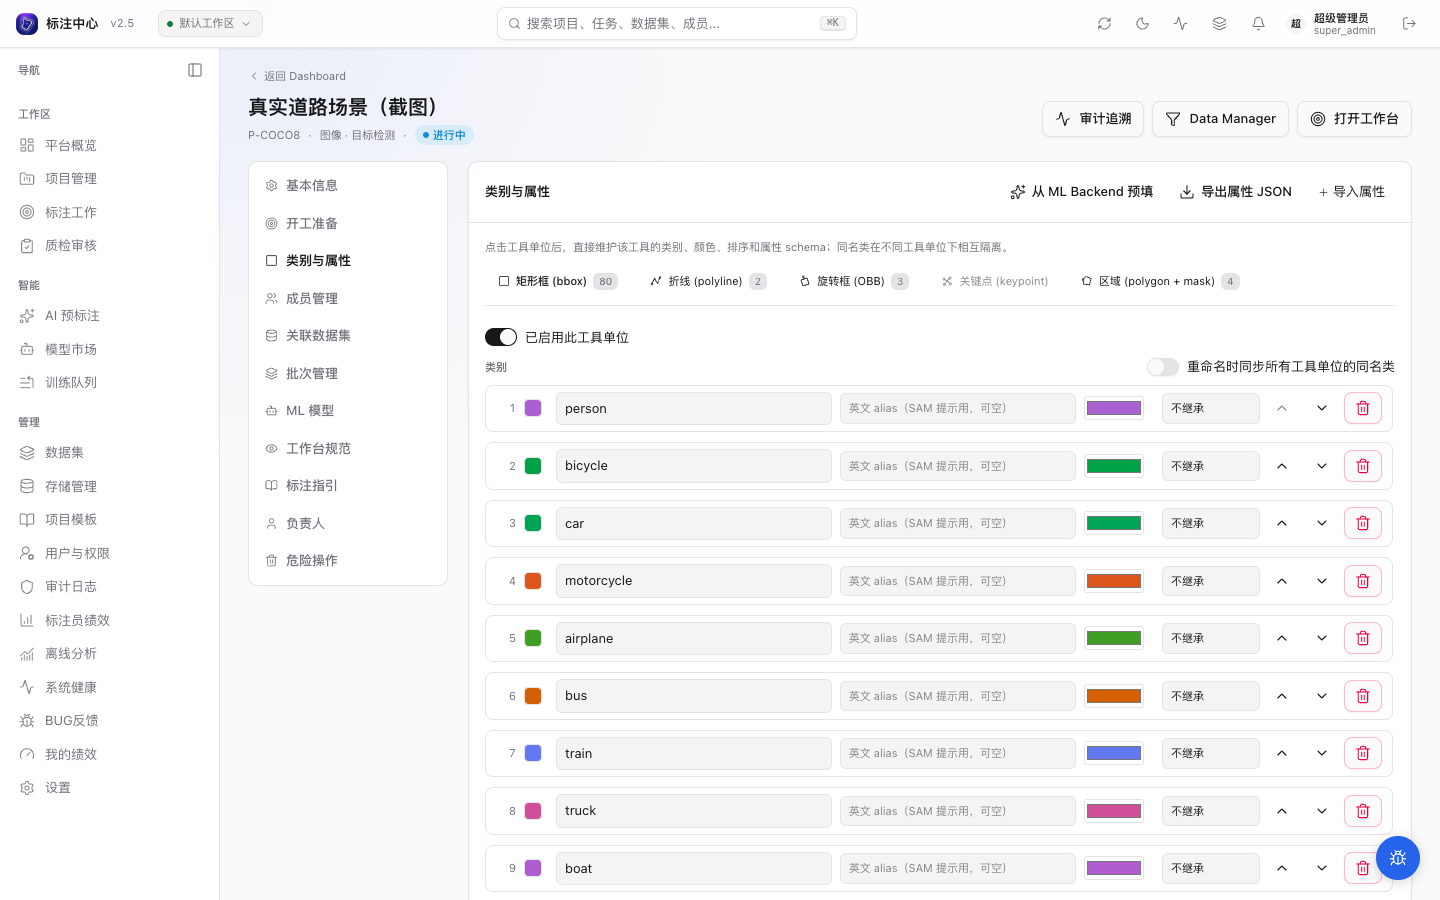
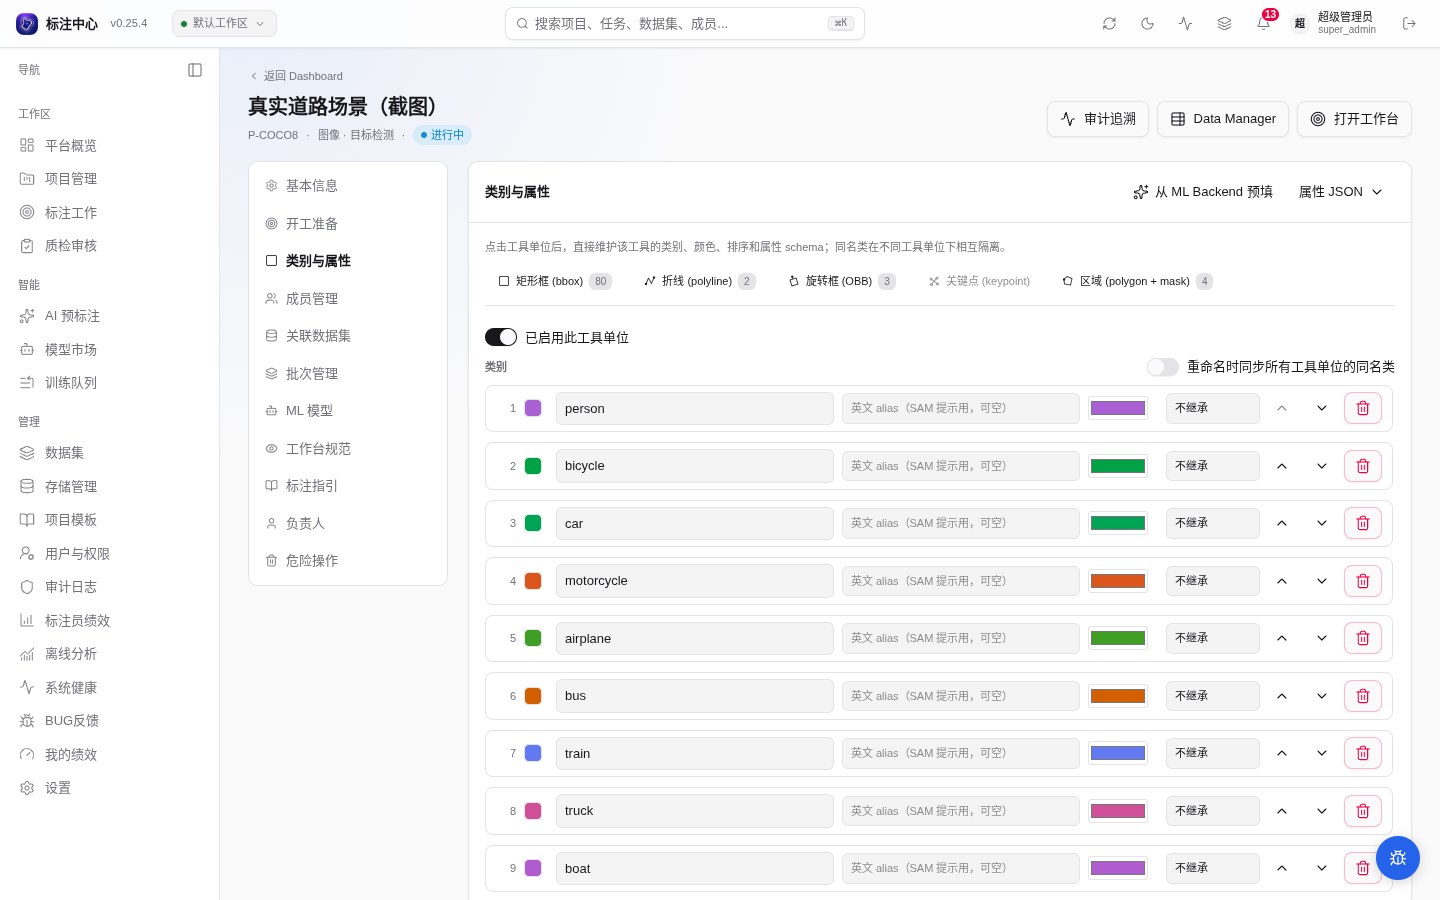
fix(web): 处理 PR #116 评审意见
- DropdownMenu 打开时把真实焦点移入面板（roving tabindex）：键盘用户
  可用 ↑↓ / Home / End / Enter / Space 直接操作菜单项，Esc / 选中 /
  trigger 再次点击后焦点归还触发器。此前只做视觉高亮，portal 面板对
  键盘用户不可达；补两条焦点单测
- 批次管理头部改为可换行布局（flex-wrap），约 480px 视口下操作组
  折行到标题下方，不再挤压标题或横向溢出
- 重拍 docs-site/user-guide/images/projects/tool-units-panel.png：
  「属性 JSON」下拉替代旧的三个独立按钮；经隔离截图栈
  （annotation_screenshots_test + Redis 15 + ml stub）单场景重拍，
  manifest 待下次完整矩阵运行统一重建

diff --git a/apps/web/src/components/ui/DropdownMenu.tsx b/apps/web/src/components/ui/DropdownMenu.tsx
@@ -170,6 +170,7 @@ export function DropdownMenu(props: DropdownMenuProps) {
   const hostRef = useRef<HTMLDivElement>(null);
   const triggerRef = useRef<HTMLButtonElement>(null);
   const menuRef = useRef<HTMLDivElement>(null);
+  const itemRefs = useRef<(HTMLButtonElement | null)[]>([]);
   const prevHostStyleRef = useRef<CSSProperties | undefined>(undefined);
   const prevPanelStyleRef = useRef<CSSProperties | undefined>(undefined);
   const [focusIdx, setFocusIdx] = useState(-1);
@@ -218,6 +219,15 @@ export function DropdownMenu(props: DropdownMenuProps) {
     const next = cur < 0 ? 0 : (cur + dir + selectableIdx.length) % selectableIdx.length;
     setFocusIdx(selectableIdx[next]);
   };
+
+  // 焦点实移（roving focus）：打开时焦点进入面板 / 首个可选中项，之后随 focusIdx 移动。
+  // 面板 portal 在 body 末尾且 tabIndex=-1，若只改 focusIdx 视觉高亮、不移真实焦点，
+  // 键盘用户 Tab 需穿过整页控件才能到菜单项，↑↓/Enter 也无从触发（PR #116 评审 P2）。
+  useEffect(() => {
+    if (!open) return;
+    const target = focusIdx >= 0 ? itemRefs.current[focusIdx] : menuRef.current;
+    target?.focus();
+  }, [focusIdx, open]);
 
   const onMenuKey = (e: ReactKeyboardEvent<HTMLDivElement>) => {
     if (!items) return; // content 模式不处理列表导航
@@ -332,8 +342,12 @@ export function DropdownMenu(props: DropdownMenuProps) {
             return (
               <button
                 key={it.id}
+                ref={(el) => {
+                  itemRefs.current[i] = el;
+                }}
                 type="button"
                 role="menuitem"
+                tabIndex={focused ? 0 : -1}
                 disabled={it.disabled}
                 onClick={() => {
                   if (it.disabled) return;
@@ -368,7 +382,11 @@ export function DropdownMenu(props: DropdownMenuProps) {
     <div ref={hostRef} className="inline-flex">
       {trigger({
         open,
-        toggle: () => setOpen((v) => !v),
+        toggle: () => {
+          // 打开时焦点已移入面板，关闭需归还触发器（Esc / 选中项已有同款处理）
+          if (open) triggerRef.current?.focus();
+          setOpen(!open);
+        },
         close,
         ref: triggerRef,
       })}

diff --git a/apps/web/src/components/ui/DropdownMenu.test.tsx b/apps/web/src/components/ui/DropdownMenu.test.tsx
@@ -63,6 +63,25 @@ describe("<DropdownMenu />", () => {
     expect(screen.queryByText("Option A")).toBeNull();
   });
 
+  // PR #116 评审 P2：打开时焦点必须真实移入菜单（面板 portal 在 body 末尾，
+  // 只改视觉高亮会让键盘用户无法触达菜单项）
+  it("打开后焦点移入首个可选中项，ArrowDown 移到下一项", () => {
+    render(<Wrapper />);
+    fireEvent.click(screen.getByText("打开"));
+    expect(screen.getByRole("menuitem", { name: "Option A" })).toHaveFocus();
+    fireEvent.keyDown(screen.getByRole("menu"), { key: "ArrowDown" });
+    expect(screen.getByRole("menuitem", { name: "Option B" })).toHaveFocus();
+  });
+
+  it("Escape 关闭后焦点回到 trigger", () => {
+    render(<Wrapper />);
+    fireEvent.click(screen.getByText("打开"));
+    expect(screen.getByRole("menuitem", { name: "Option A" })).toHaveFocus();
+    fireEvent.keyDown(document, { key: "Escape" });
+    expect(screen.queryByText("Option A")).toBeNull();
+    expect(screen.getByText("打开")).toHaveFocus();
+  });
+
   it("disabled item 点击不触发 onSelect", () => {
     const onSelect = vi.fn();
     render(<Wrapper items={[{ id: "x", label: "Disabled", disabled: true, onSelect }]} />);

diff --git a/apps/web/src/pages/Projects/sections/BatchesSection.tsx b/apps/web/src/pages/Projects/sections/BatchesSection.tsx
@@ -430,9 +430,9 @@ export function BatchesSection({ project }: { project: ProjectResponse }) {
   return (
     <>
       <Card>
-        <div className="flex items-center justify-between gap-3 border-b border-border px-4 py-3.5">
+        <div className="flex flex-wrap items-center justify-between gap-x-3 gap-y-2 border-b border-border px-4 py-3.5">
           <h3 className="text-sm font-semibold">批次管理</h3>
-          <div className="flex items-center gap-1.5 whitespace-nowrap">
+          <div className="flex flex-wrap items-center gap-1.5">
             {/* v0.7.6 · view toggle */}
             <div
               role="tablist"

diff --git a/CHANGELOG.md b/CHANGELOG.md
@@ -41,6 +41,11 @@
 
 - 登录后版本更新提醒：平台每次发版后，用户登录时弹一次「本次更新」窗口，展示当前版本更新日志的要点；刷新恢复会话不重复弹出，未确认版本留到下次登录再提醒。点击「知道了」按账号跨设备记录已读版本，同一版本不再重复提醒；直接关闭窗口则下次登录时再次提醒。顶栏版本号可点击，随时查看当前版本的更新内容。
 
+### Fixed
+
+- 「属性 JSON」下拉菜单键盘可用性：打开菜单后焦点现在真实移入面板首项（↑↓ / Home / End / Enter / Space 可直接操作，Esc 关闭后焦点回到触发按钮）；此前面板仅做视觉高亮、不移动真实焦点，portal 面板对键盘用户不可达。
+- 批次管理页签头部在窄屏（约 480px 视口）不再溢出：标题与右上角操作（视图切换 + 两个按钮）改为可换行布局，超宽时操作组折行到标题下方。
+
 ### Changed
 
 - 项目设置「类别与属性」页签右上角操作收敛为两项：保留「从 ML Backend 预填」（类别 + 属性的唯一批量入口），「导出属性 JSON」「导入属性」合并进「属性 JSON」下拉菜单，菜单项更名为「导出 / 导入属性 schema (JSON)」并附说明文字：仅含当前工具单位的属性 schema，类别不能经 JSON 导入 / 导出。导入 / 导出行为与文件格式不变。
